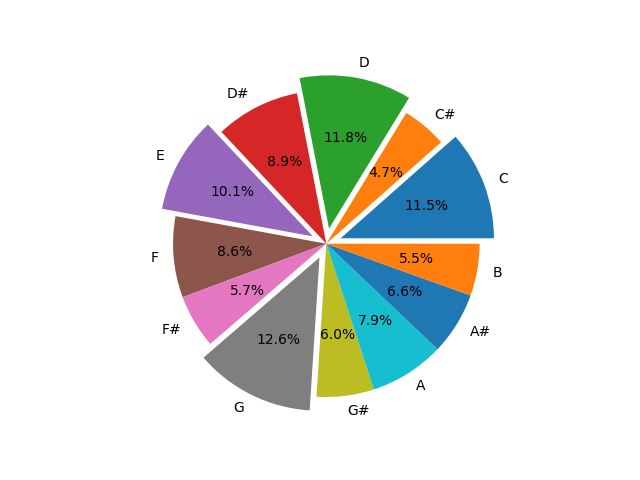
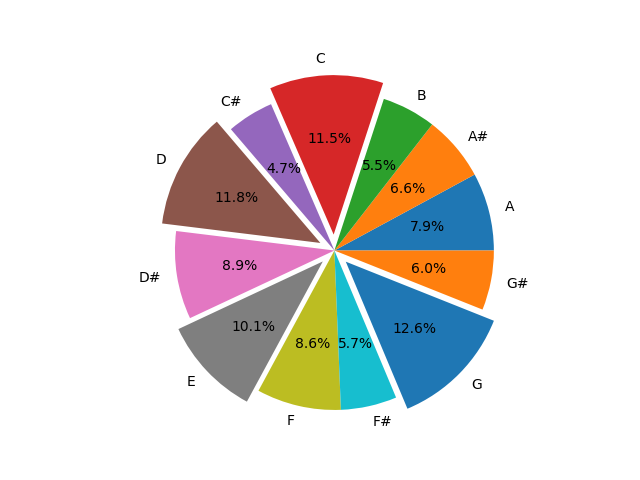
get rid of json

Changed region(s): [[0.2188, 0.125, 0.8438, 0.875], [0.5938, 0.875, 0.625, 0.9062]]

diff --git a/visualize.py b/visualize.py
@@ -1,57 +1,33 @@
-import json
 import sqlite3
 import matplotlib.pyplot as plt
 from rich.console import Console
 from rich.table import Table
 
-LABELS = ['C', 'C#', 'D', 'D#', 'E', 'F', 'F#', 'G', 'G#', 'A', 'A#', 'B']
+LABELS = ['A', 'A#', 'B', 'C', 'C#', 'D', 'D#', 'E', 'F', 'F#', 'G', 'G#']
 
 
-def load_sql(filename='songs.json'):
-    con = sqlite3.connect('songs.db')
-    langs = ['国%', '外%', '纯%']
-    data = {
-        'total': {
-            'all': con.execute("SELECT COUNT(title) FROM songs").fetchone()[0],
-            'chn': con.execute(
-                f"SELECT COUNT(title) FROM songs WHERE lang LIKE '{langs[0]}'"
-            ).fetchone()[0],
-            'for': con.execute(
-                f"SELECT COUNT(title) FROM songs WHERE lang LIKE '{langs[1]}'"
-            ).fetchone()[0],
-            'ins': con.execute(
-                f"SELECT COUNT(title) FROM songs WHERE lang LIKE '{langs[2]}'"
-            ).fetchone()[0],
-        },
-        'count': {},
-    }
-
-    for key in LABELS:
-        data['count'][key] = [
-            con.execute(
-                "SELECT COUNT(title) FROM songs WHERE lang LIKE (?) AND key= (?)",
-                (lang, key),
-            ).fetchone()[0]
-            for lang in langs
-        ]
-
-    return data
-
-
-def pie_chart(songs):
+def pie_chart(cur: sqlite3.Cursor) -> None:
     fig, ax = plt.subplots()
+
+    counts = [
+        line[0]
+        for line in cur.execute(
+            'select count(key) from songs group by key order by key'
+        ).fetchall()
+    ]
+
     ax.pie(
-        [sum(songs['count'][key]) for key in LABELS],
+        counts,
         labels=LABELS,
         autopct='%1.1f%%',
-        explode=[0.1, 0, 0.1, 0, 0.1, 0, 0, 0.1, 0, 0, 0, 0],
+        explode=[0, 0, 0, 0.1, 0, 0.1, 0, 0.1, 0, 0, 0.1, 0],
     )
     ax.axis('equal')
     plt.show()
     fig.savefig('result.png')
 
 
-def rich_table(songs):
+def rich_table(cur: sqlite3.Cursor) -> None:
     table = Table(show_header=True)
     table.add_column('Key', style='bold')
     table.add_column('Total(percent)', justify='right')
@@ -59,34 +35,51 @@ def rich_table(songs):
     table.add_column('Foreign', justify='right')
     table.add_column('Instrumental', justify='right')
 
-    total = songs['total']['all']
-    ctotal = songs['total']['chn']
-    ftotal = songs['total']['for']
-    itotal = songs['total']['ins']
+    total = cur.execute('select count(title) from songs').fetchone()[0]
+    chn_count, for_count, ins_count = [
+        line[0]
+        for line in cur.execute(
+            'select count(title) from songs group by lang'
+        ).fetchall()
+    ]
+
     for key in LABELS:
-        ss = sum(songs['count'][key])
-        sp = float(ss) / total
-        chn, frn, ins = songs['count'][key]
-        cp, fp, ip = float(chn) / ctotal, float(frn) / ctotal, float(ins) / ctotal
+        key_total = cur.execute(
+            'select count(title) from songs where key = (?)', (key,)
+        ).fetchone()[0]
+        key_percent = float(key_total) / total
+        chn, frn, ins = [
+            line[0]
+            for line in cur.execute(
+                'select count(title) from songs where key = (?) group by lang', (key,)
+            ).fetchall()
+        ]
+        cp, fp, ip = (
+            float(chn) / chn_count,
+            float(frn) / chn_count,
+            float(ins) / chn_count,
+        )
         table.add_row(
             f'{key}',
-            f'{ss:>5} ({sp*100:>5.2f}%)',
+            f'{key_total:>5} ({key_percent*100:>5.2f}%)',
             f'{chn:>6} ({cp*100:>5.2f}%)',
             f'{frn:>6} ({fp*100:>5.2f}%)',
             f'{ins:>6} ({ip*100:>5.2f}%)',
-            end_section=key == 'B',
+            end_section=key == 'G#',
         )
-    table.add_row(
-        'Total', str(total), str(ctotal), str(ftotal), str(itotal), style='bold'
-    )
+    table.add_row('Total', str(total), str(chn_count), str(for_count), str(ins_count))
     console = Console()
     console.print(table)
 
 
 def main():
-    songs = load_sql()
-    pie_chart(songs)
-    rich_table(songs)
+    con = sqlite3.connect('songs.db')
+    cur = con.cursor()
+
+    pie_chart(cur)
+    rich_table(cur)
+
+    con.close()
 
 
 if __name__ == '__main__':

diff --git a/歌曲调号总结.md b/歌曲调号总结.md
@@ -1,12 +1,5 @@
 # 歌曲调号总结
 
-## 规则
-
-* 按照国语歌曲、外语歌曲、纯音乐的顺序进行排序
-* 按照歌曲主歌部分（而非前奏部分）的调号进行归纳
-* 同一类别下按照英文名、中文名、日文名、其他（如数字、法语、韩语）的顺序进行排列
-* 歌曲后面的备注分别为：（《出处》，歌手1[&歌手2]，“歌词”）『注音』【转调】
-
 ## C
 
 ### 国语歌曲

diff --git a/README.md b/README.md
@@ -37,3 +37,10 @@
 python md2sql.py
 python visualize.py
 ```
+
+## 规则
+
+* 按照国语歌曲、外语歌曲、纯音乐的顺序进行排序
+* 按照歌曲主歌部分（而非前奏部分）的调号进行归纳
+* 同一类别下按照英文名、中文名、日文名、其他（如数字、法语、韩语）的顺序进行排列
+* 歌曲后面的备注分别为：（《出处》，歌手1[&歌手2]，“歌词”）『注音』【转调】
